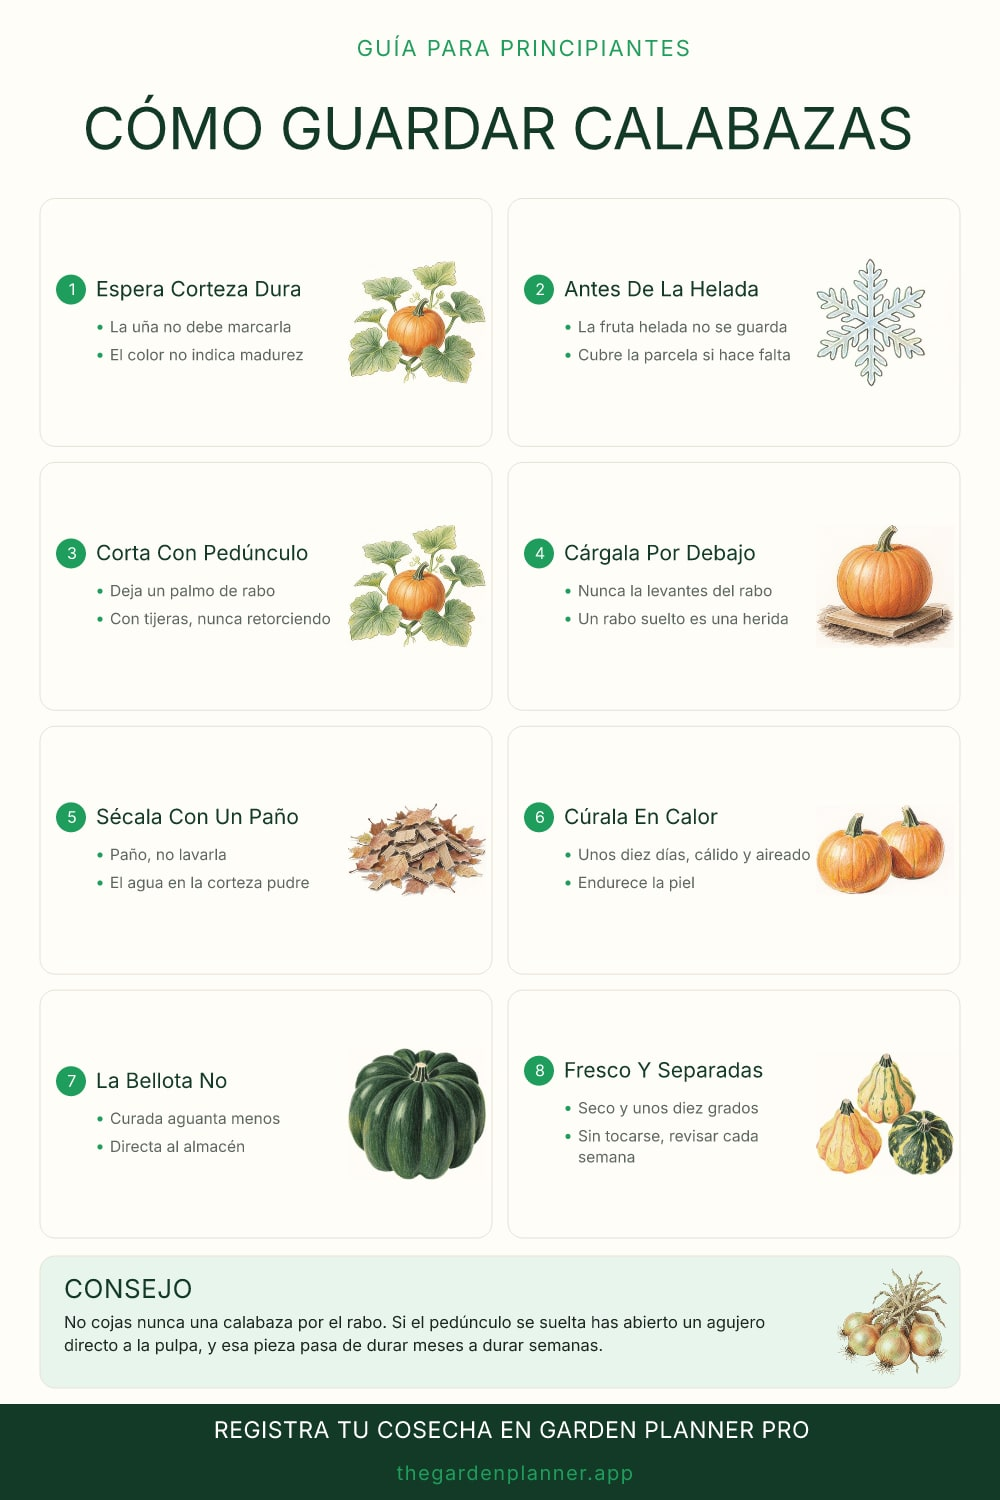
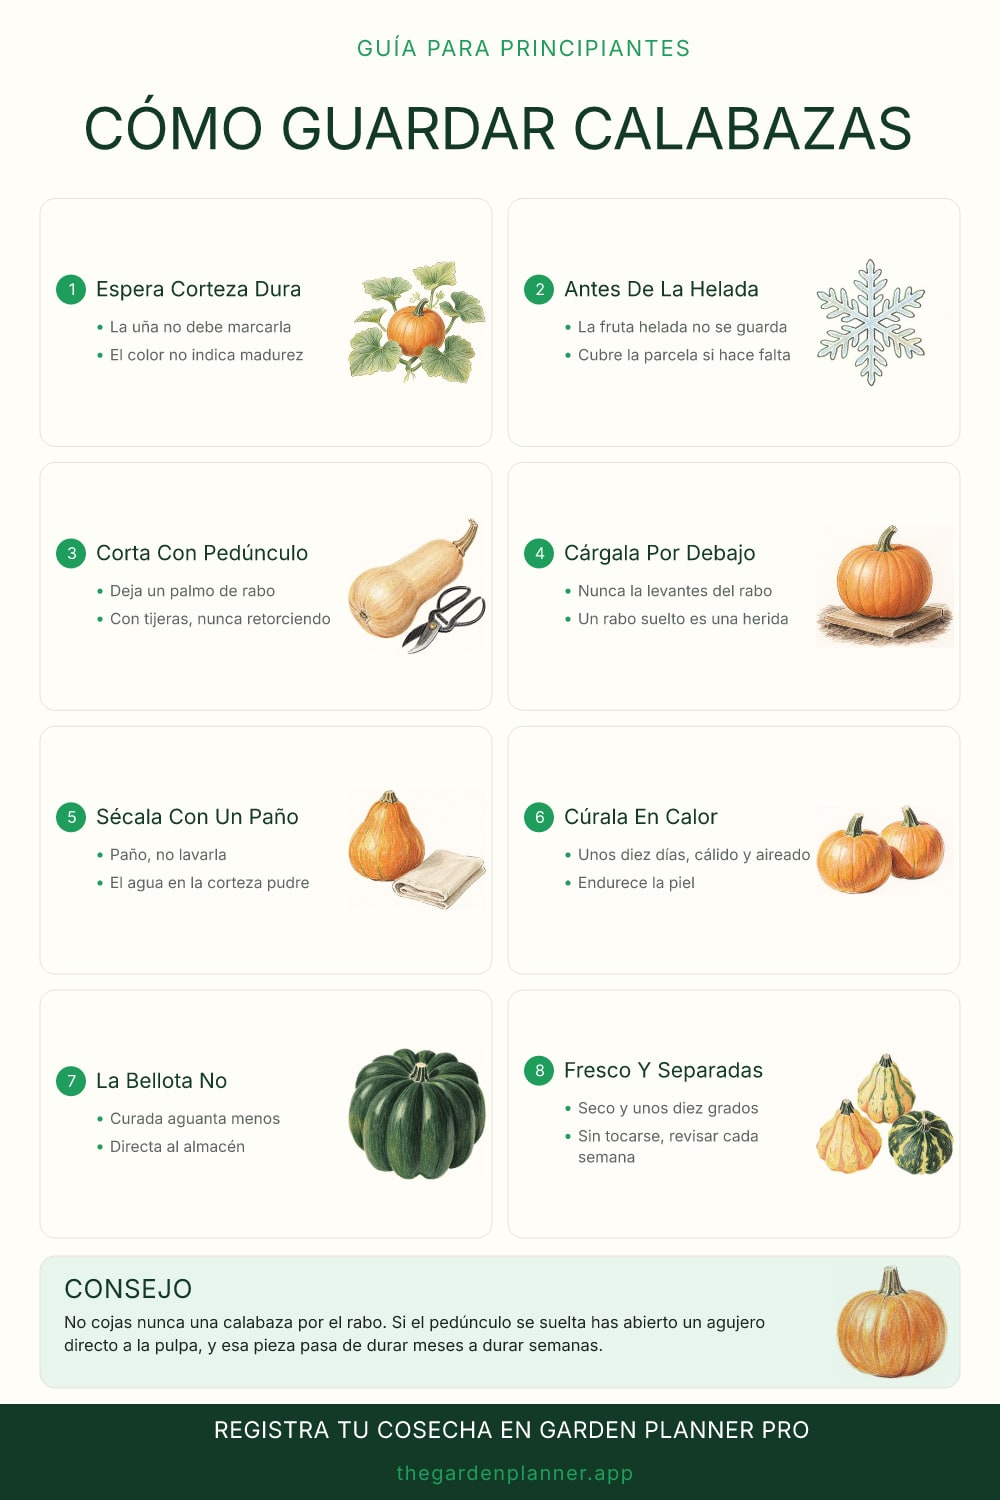
Publish infographics: how-to-store-winter-squash

Changed region(s): [[0.341, 0.3373, 0.496, 0.4293], [0.341, 0.5213, 0.496, 0.6133], [0.837, 0.828, 0.961, 0.92]]

diff --git a/src/content/blog/es/como-guardar-calabazas-de-invierno.md b/src/content/blog/es/como-guardar-calabazas-de-invierno.md
@@ -25,7 +25,7 @@ guideSteps:
       bullets:
           - "La fruta helada no se guarda"
           - "Cubre la parcela si hace falta"
-    - icon: "pumpkin-on-vine"
+    - icon: "squash-cut-stem"
       label: "Corta Con Pedúnculo"
       bullets:
           - "Deja un palmo de rabo"
@@ -35,7 +35,7 @@ guideSteps:
       bullets:
           - "Nunca la levantes del rabo"
           - "Un rabo suelto es una herida"
-    - icon: "dry-brown-leaves"
+    - icon: "squash-dry-cloth"
       label: "Sécala Con Un Paño"
       bullets:
           - "Paño, no lavarla"
@@ -58,7 +58,7 @@ guideSteps:
 guideProTip:
   label: "Consejo"
   text: "No cojas nunca una calabaza por el rabo. Si el pedúnculo se suelta has abierto un agujero directo a la pulpa, y esa pieza pasa de durar meses a durar semanas."
-  icon: "curing-onions"
+  icon: "squash-short-stem"
 guideCta: "Registra tu cosecha en Garden Planner Pro"
 pinDescription: "Cómo guardar calabazas de invierno: espera a que la corteza resista la uña, córtala dejando un buen trozo de pedúnculo, cúrala unos diez días en un sitio cálido y guárdala fresca y seca sin que se toquen entre ellas. La calabaza bellota es la excepción y no se cura."
 pinBoard: "Vegetable Garden Layouts"

diff --git a/src/content/blog/how-to-store-winter-squash.md b/src/content/blog/how-to-store-winter-squash.md
@@ -25,7 +25,7 @@ guideSteps:
       bullets:
           - "Frosted fruit will not keep"
           - "Cover the patch if needed"
-    - icon: "pumpkin-on-vine"
+    - icon: "squash-cut-stem"
       label: "Cut A Long Stem"
       bullets:
           - "Leave a handspan of stem"
@@ -35,7 +35,7 @@ guideSteps:
       bullets:
           - "Never lift by the stem"
           - "A pulled stem is an open wound"
-    - icon: "dry-brown-leaves"
+    - icon: "squash-dry-cloth"
       label: "Wipe It Dry"
       bullets:
           - "Cloth, not a wash"
@@ -58,7 +58,7 @@ guideSteps:
 guideProTip:
   label: "Pro tip"
   text: "Never carry a squash by its stem. If the stem pulls out you have opened a hole straight into the flesh, and that fruit now has weeks rather than months."
-  icon: "curing-onions"
+  icon: "squash-short-stem"
 guideCta: "Track your harvest in Garden Planner Pro"
 pinDescription: "How to store winter squash: leave it until the rind resists a thumbnail, cut it with a long stem handle, cure it somewhere warm for about ten days, then store it cool and dry with the fruits not touching. Acorn squash is the exception and skips curing."
 pinBoard: "Vegetable Garden Layouts"
